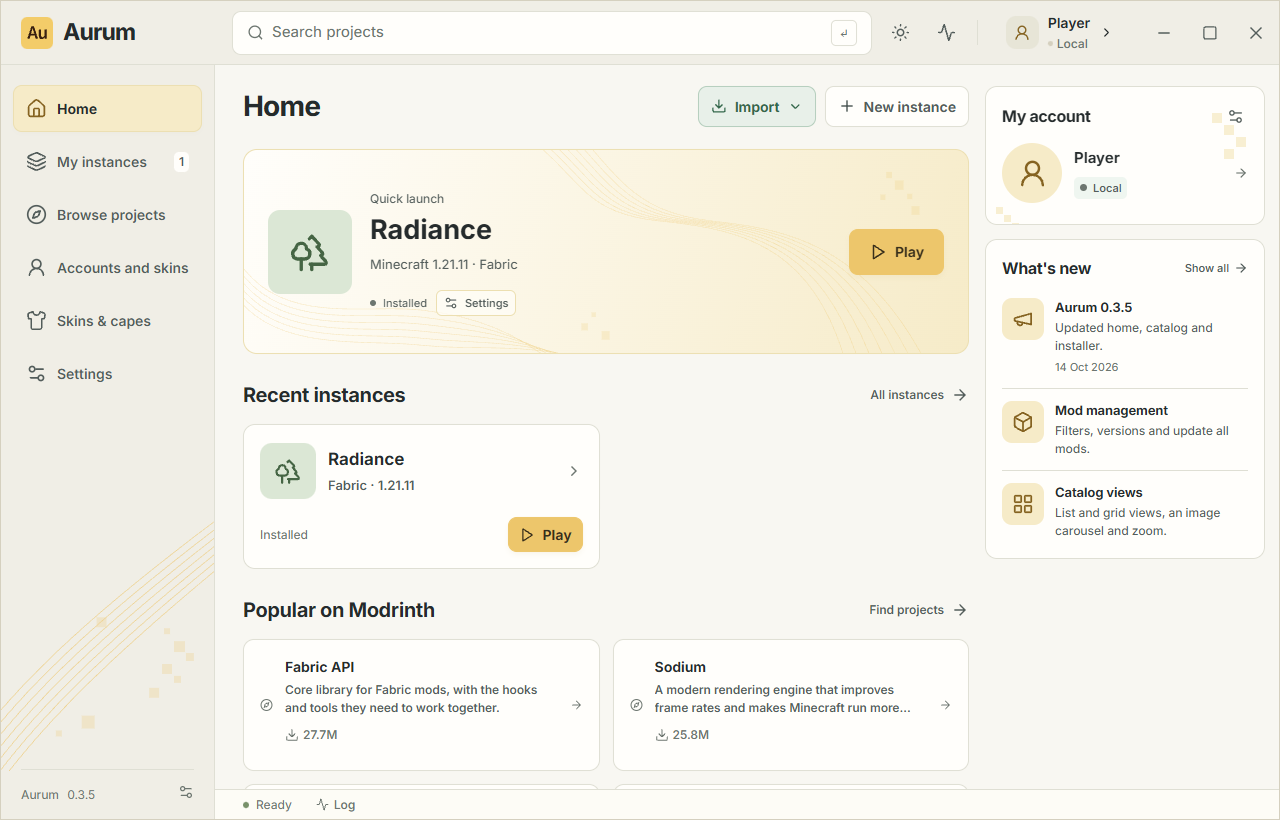
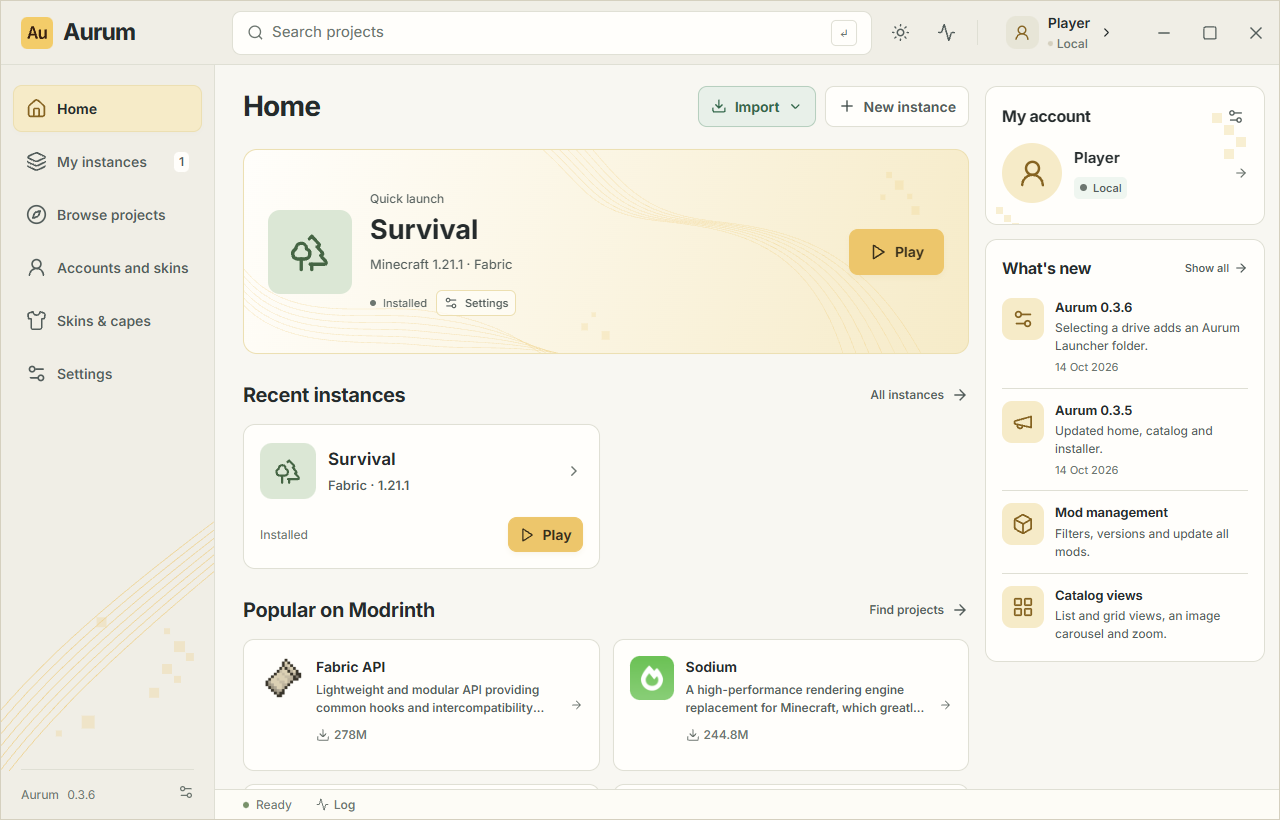
fix(i18n): complete English content labels and refresh preview

diff --git a/tests/ui/content-manager.spec.ts b/tests/ui/content-manager.spec.ts
@@ -1,9 +1,14 @@
 import { test, expect, type Page } from "@playwright/test";
 
-async function fixture(page: Page, theme = "light", running = false) {
+async function fixture(
+  page: Page,
+  theme = "light",
+  running = false,
+  language = "ru",
+) {
   await page.addInitScript(
-    ({ theme, running }) => {
-      localStorage.setItem("aurum:language", "ru");
+    ({ theme, running, language }) => {
+      localStorage.setItem("aurum:language", language);
       const w = window as any;
       w.isTauri = true;
       const icon =
@@ -90,7 +95,7 @@ async function fixture(page: Page, theme = "light", running = false) {
       ];
       const profile = {
         id: "profile-test",
-        name: "Уютный мир",
+        name: language === "en" ? "Cozy World" : "Уютный мир",
         minecraft: "1.21.1",
         loader: "fabric",
         loaderVersion: "0.16.14",
@@ -107,7 +112,7 @@ async function fixture(page: Page, theme = "light", running = false) {
         accounts: [],
         selectedAccount: null,
         settings: {
-          language: "ru",
+          language,
           theme,
           javaPath: "",
           ramMb: 4096,
@@ -223,18 +228,49 @@ async function fixture(page: Page, theme = "light", running = false) {
         },
       };
     },
-    { theme, running },
+    { theme, running, language },
   );
   await page.goto("/");
-  await page.getByRole("button", { name: "Мои сборки", exact: true }).click();
   await page
-    .getByRole("button", { name: "Открыть Уютный мир", exact: true })
+    .getByRole("button", {
+      name: language === "en" ? "My instances" : "Мои сборки",
+      exact: true,
+    })
+    .click();
+  await page
+    .getByRole("button", {
+      name: language === "en" ? "Open Cozy World" : "Открыть Уютный мир",
+      exact: true,
+    })
     .click();
   await expect(
-    page.getByRole("table", { name: "Установленный контент" }),
+    page.getByRole("table", {
+      name: language === "en" ? "Installed content" : "Установленный контент",
+    }),
   ).toBeVisible();
-  await expect(page.getByText("Доступно обновлений: 2")).toBeVisible();
+  await expect(
+    page.getByText(
+      language === "en" ? "Updates available: 2" : "Доступно обновлений: 2",
+    ),
+  ).toBeVisible();
 }
+
+test("English content controls and table headings are translated", async ({
+  page,
+}) => {
+  await fixture(page, "light", false, "en");
+  await expect(
+    page.getByRole("button", { name: "Filter", exact: true }),
+  ).toBeVisible();
+  await expect(
+    page.getByRole("button", { name: "Add file", exact: true }),
+  ).toBeVisible();
+  await expect(page.getByRole("columnheader")).toHaveText([
+    "Project",
+    "Version",
+    "Actions",
+  ]);
+});
 
 const rows = (page: Page) => page.locator(".installed-content-row");
 const names = (page: Page) =>

diff --git a/src/locales/content-manager.ts b/src/locales/content-manager.ts
@@ -1,4 +1,8 @@
 export const contentManagerEnglish: Record<string, string> = {
+  Фильтр: "Filter",
+  "Добавить файл": "Add file",
+  Проект: "Project",
+  Версия: "Version",
   "Найти проекты": "Find projects",
   "Найти мод, автора или файл": "Find a mod, author or file",
   "Сортировка контента": "Content sorting",

diff --git a/README.md b/README.md
@@ -19,7 +19,7 @@ An independent Windows launcher with a warm light theme and a graphite dark them
 
 ---
 
-<img src="docs/launcher-en.png" alt="Aurum Launcher 0.3.5 — English interface" width="1280">
+<img src="docs/launcher-en.png" alt="Aurum Launcher 0.3.6 — English interface" width="1280">
 
 *English interface preview with demonstration data.*
 
